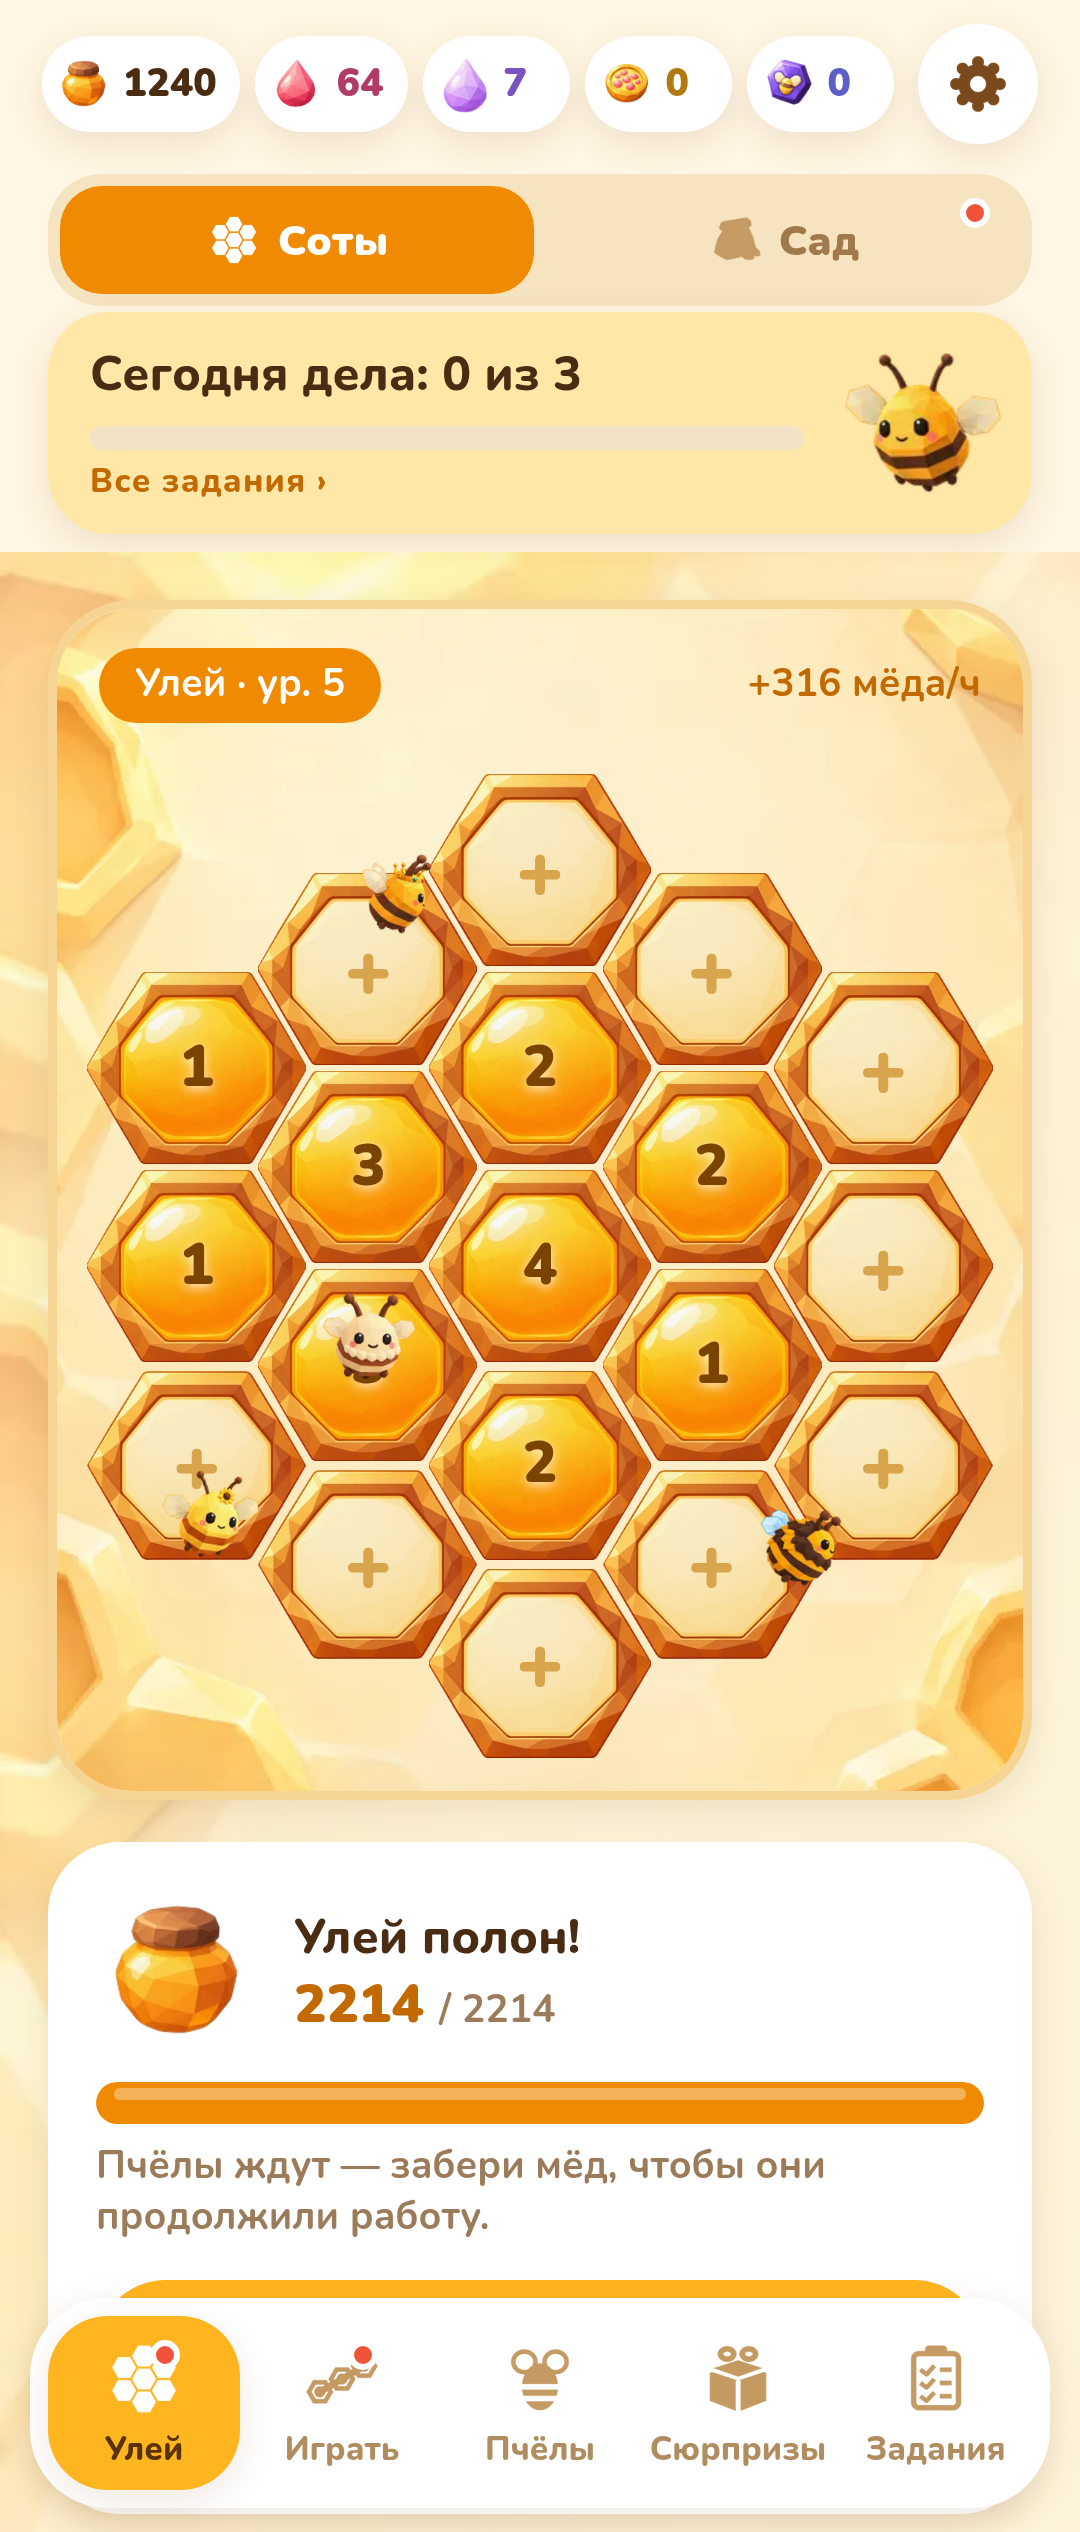
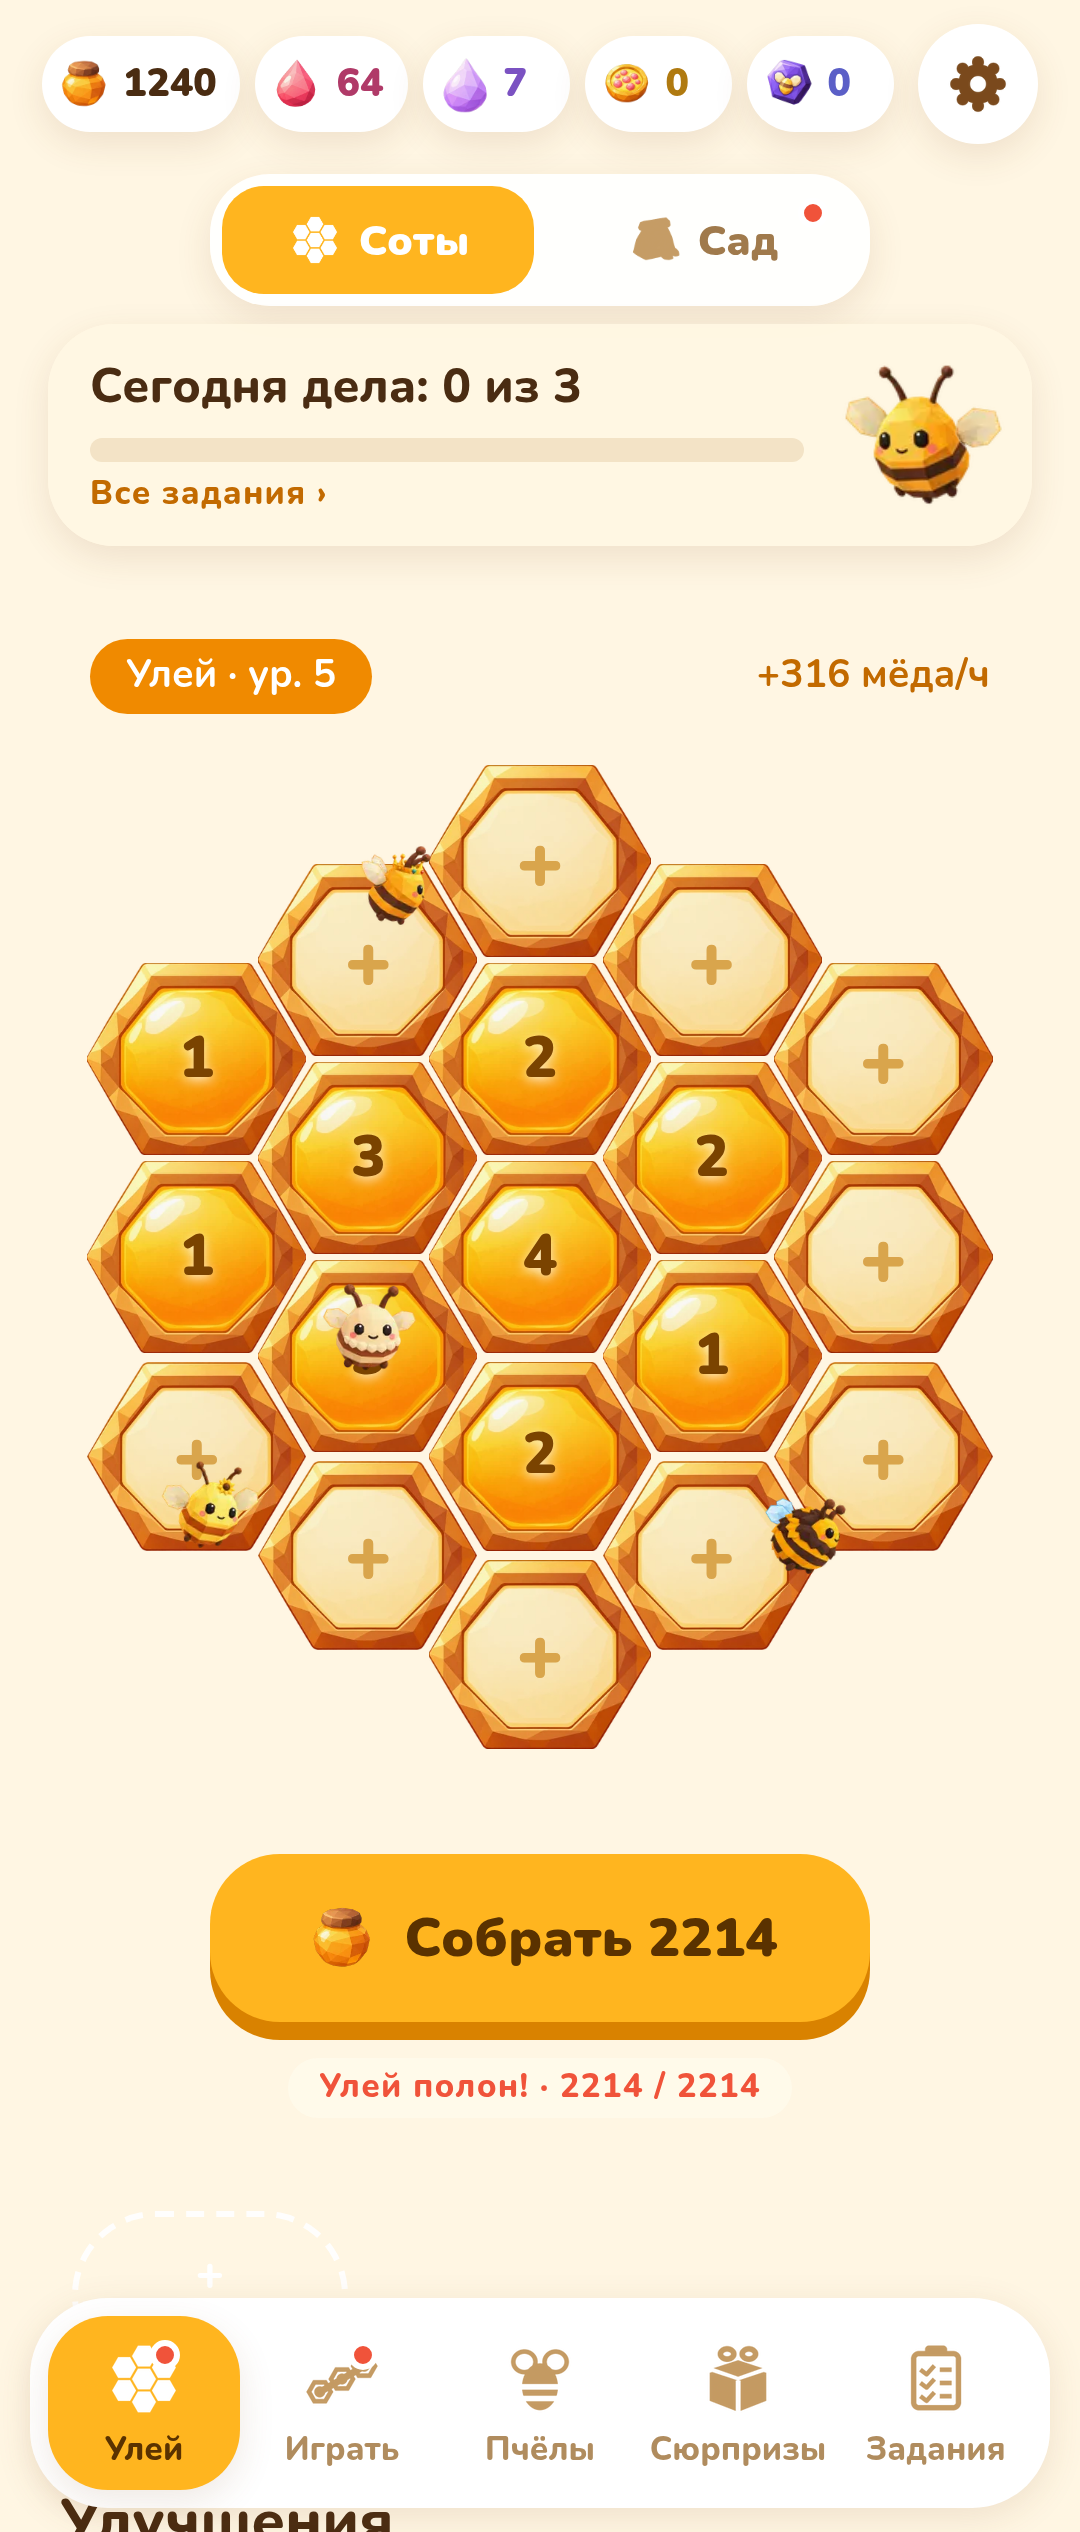
v1.5-ui: Hive and Garden on the meadow per mockup (full-screen env bg, free comb field, Collect button, decor spots, open bed grid, green Полить всё); versionCode 12

diff --git a/src/screens/GardenScreen.tsx b/src/screens/GardenScreen.tsx
@@ -1,6 +1,6 @@
 import { t } from "../i18n";
 import React, { useEffect, useRef, useState } from "react";
-import { ImageBackground, Animated, Image, ScrollView, StyleSheet, useWindowDimensions, View } from "react-native";
+import { Animated, Image, ScrollView, StyleSheet, useWindowDimensions, View } from "react-native";
 import { GameState, dayColorInfo, flowerUnlocked, level, nextBedCost, seedPrice, seedsOwned, shownDecos } from "../logic/game";
 import { DecoStrip, RARITY_UI } from "../ui/lootUi";
 import {
@@ -66,7 +66,7 @@ function BedTile({ b, i, w, selected, onPress }: { b: Bed; i: number; w: number;
   const img = flowerImg(b);
   const h = w * 1.18;
   return (
-    <Press onPress={() => onPress(ref.current)} style={[styles.bed, shadow, { width: w, height: h }, selected && styles.bedSel]}
+    <Press onPress={() => onPress(ref.current)} style={[styles.bed, { width: w, height: h }, selected && styles.bedSel]}
       accessibilityRole="button" accessibilityLabel={t("gd.bedLabel", { i: i + 1, what: `${b.flower ? FLOWER_BY_ID[b.flower].name + ", " : ""}${st.text}` })}>
       <View ref={ref} collapsable={false} style={{ flex: 1, alignItems: "center" }}>
         <View style={{ flex: 1, width: "100%", alignItems: "center", justifyContent: "flex-end" }}>
@@ -79,7 +79,7 @@ function BedTile({ b, i, w, selected, onPress }: { b: Bed; i: number; w: number;
             <View style={styles.plus}><Image source={ART.seed} style={{ width: 22, height: 22, tintColor: "#B0875A" }} /></View>
           )}
         </View>
-        <Image source={wet ? require("../../assets/art/env/bed_wet.webp") : require("../../assets/art/env/bed_dry.webp")} resizeMode="contain" style={{ width: "100%", height: 34, marginTop: -10 }} />
+        <Image source={wet ? require("../../assets/art/env/bed_wet.webp") : require("../../assets/art/env/bed_dry.webp")} resizeMode="contain" style={{ width: "112%", height: 46, marginTop: -16 }} />
         {b.flower && !isReady(b) ? <Bar progress={progress(b)} height={6} color={wet ? "#5CB8F0" : C.honey} style={{ width: "86%", marginTop: 5 }} /> : <View style={{ height: 11 }} />}
         <Txt v="tiny" numberOfLines={1} color={st.tone === "ready" ? C.greenDark : st.tone === "dry" ? C.red : C.dim} style={{ marginTop: 3 }}>{st.text}</Txt>
         {st.tone === "ready" ? <View style={styles.readyDot}><Image source={ART.nectar} style={{ width: 22, height: 22 }} /></View> : null}
@@ -110,7 +110,7 @@ export default function GardenScreen({ s, now, onPlant, onWater, onWaterAll, onH
   };
 
   return (
-    <ImageBackground source={require("../../assets/art/env/garden_bg.webp")} resizeMode="cover" style={{ flex: 1 }} imageStyle={{ opacity: 0.55 }}>
+    <View style={{ flex: 1 }}>
     <ScrollView contentContainerStyle={{ padding: 16, paddingBottom: 110, gap: 14 }} showsVerticalScrollIndicator={false}>
       {!s.settings.gardenIntroDone ? (
         <Card style={{ flexDirection: "row", gap: 10, alignItems: "center" }}>
@@ -143,7 +143,6 @@ export default function GardenScreen({ s, now, onPlant, onWater, onWaterAll, onH
         </View>
       </View>
 
-      <DecoStrip ids={shownDecos(s, "garden")} ground="#DDEFC8" />
       <View onLayout={(e) => setGridW(e.nativeEvent.layout.width)} style={{ flexDirection: "row", flexWrap: "wrap", gap: 10, width: "100%", alignSelf: "stretch" }}>
         {beds.map((b, i) => <BedTile key={i} b={b} i={i} w={bw} selected={sel === i} onPress={(r) => tap(i, r)} />)}
         {bedCost !== null ? (
@@ -156,9 +155,12 @@ export default function GardenScreen({ s, now, onPlant, onWater, onWaterAll, onH
         ) : null}
       </View>
 
-      {canWaterAny ? (
-        <GameButton title={t("gd.waterAll")} icon={ART.can} color="white" onPress={() => onWaterAll()} label={t("gd.waterAll")} />
-      ) : null}
+      <GameButton title={t("gd.waterAll")} icon={ART.can} color="green" disabled={!canWaterAny} onPress={() => onWaterAll()} label={t("gd.waterAll")} />
+      {/* decor room on the grass */}
+      <View style={{ flexDirection: "row", alignItems: "flex-end", minHeight: 80 }}>
+        <DecoStrip ids={shownDecos(s, "garden")} ground="transparent" />
+        <View style={styles.decoSpot}><Txt v="h3" color="#fff">+</Txt><Txt v="tiny" color="#fff">{t("hv.decor")}</Txt></View>
+      </View>
 
       {selBed && sel !== null ? (
         selBed.flower ? (
@@ -208,17 +210,18 @@ export default function GardenScreen({ s, now, onPlant, onWater, onWaterAll, onH
       )}
       <Txt v="tiny" color={C.faint} center>{t("gd.levelHint", { n: level(s) })}</Txt>
     </ScrollView>
-    </ImageBackground>
+    </View>
   );
 }
 
 const styles = StyleSheet.create({
-  head: { backgroundColor: "#E6F5D2", borderRadius: 24, padding: 16, borderWidth: 3, borderColor: "#C6E5A4" },
+  head: { backgroundColor: "rgba(255,250,238,0.94)", borderRadius: 24, padding: 14 },
   nectarBox: { alignItems: "center", backgroundColor: "#fff", borderRadius: 18, paddingHorizontal: 12, paddingVertical: 6 },
   dayColor: { flexDirection: "row", alignItems: "center", gap: 8, backgroundColor: "#fff", borderRadius: 14, padding: 10, marginTop: 12, borderWidth: 2 },
   dot: { width: 14, height: 14, borderRadius: 7, borderWidth: 2, borderColor: "#fff" },
-  bed: { backgroundColor: "#FFF4DD", borderRadius: 22, padding: 8, alignItems: "center", overflow: "visible" },
-  bedSel: { borderWidth: 3, borderColor: C.honey, padding: 5 },
+  bed: { backgroundColor: "transparent", borderRadius: 22, padding: 8, alignItems: "center", overflow: "visible" },
+  decoSpot: { width: 92, height: 56, borderRadius: 46, borderWidth: 2, borderStyle: "dashed", borderColor: "rgba(255,255,255,0.9)", alignItems: "center", justifyContent: "center", marginLeft: 8 },
+  bedSel: { borderWidth: 3, borderColor: C.honey, padding: 5, backgroundColor: "rgba(255,247,226,0.6)" },
   bedLocked: { backgroundColor: "#F6EAD3", justifyContent: "center", borderWidth: 2, borderStyle: "dashed", borderColor: "#E2C99C", ...shadow, shadowOpacity: 0 },
   soil: { width: "92%", height: 18, borderRadius: 9, backgroundColor: "#B07A4A", overflow: "hidden" },
   soilWet: { backgroundColor: "#7A4E2B" },

diff --git a/src/screens/HiveScreen.tsx b/src/screens/HiveScreen.tsx
@@ -2,7 +2,7 @@ import { t } from "../i18n";
 import { shownDecos } from "../logic/game";
 import { DecoStrip } from "../ui/lootUi";
 import React, { useEffect, useMemo, useRef, useState } from "react";
-import { ImageBackground, Animated, Easing, Image, Platform, Pressable, ScrollView, StyleSheet, Text, useWindowDimensions, View } from "react-native";
+import { Animated, Easing, Image, Platform, Pressable, ScrollView, StyleSheet, Text, useWindowDimensions, View } from "react-native";
 import { GameState, cap, canBuildAt, clockRolledBack, combActionCost, level, rate, upgradeCostFor } from "../logic/game";
 import { capHours, combRate, MAX_COMB_LEVEL, msUntilFull, UPGRADES, UpgradeId } from "../logic/economy";
 import { HIVE_SLOTS, hiveCenter } from "../logic/hex";
@@ -187,7 +187,7 @@ export default function HiveScreen({ s, now, onCollect, onComb, onUpgrade, banne
   }, [s.bees.join(","), builtKey, hs, areaW, areaH]);
 
   return (
-    <ImageBackground source={require("../../assets/art/env/hive_bg.webp")} resizeMode="cover" style={{ flex: 1 }} imageStyle={{ opacity: 0.55 }}>
+    <View style={{ flex: 1 }}>
     <ScrollView contentContainerStyle={{ padding: 16, paddingBottom: 110, gap: 14 }} showsVerticalScrollIndicator={false}>
       {rolled ? (
         <Card style={{ backgroundColor: "#FFE7DF", padding: 12 }}>
@@ -196,10 +196,8 @@ export default function HiveScreen({ s, now, onCollect, onComb, onUpgrade, banne
       ) : null}
 
       {banner}
-      <DecoStrip ids={shownDecos(s, "hive")} ground="#F6E3BC" />
-      {/* hive */}
+      {/* hive: free-standing comb field on the meadow */}
       <View style={[styles.hiveArea, { height: areaH + 46 }]}>
-        <Image source={require("../../assets/art/env/hive_bg.webp")} resizeMode="cover" style={[StyleSheet.absoluteFill, { width: "100%", height: "100%", borderRadius: 25, opacity: 0.9 }]} />
         <View style={styles.hiveHead}>
           <View style={styles.levelChip}><Txt v="small" color="#fff">{t("hive.levelChip", { n: level(s) })}</Txt></View>
           <Txt v="small" color={C.honeyDark}>{t("hive.rate", { r: rateFmt(r) })}</Txt>
@@ -218,28 +216,26 @@ export default function HiveScreen({ s, now, onCollect, onComb, onUpgrade, banne
         <CombPanel s={s} slot={sel} onAction={() => onComb(sel)} onClose={() => setSel(null)} />
       ) : null}
 
-      <Card>
-        <View style={{ flexDirection: "row", alignItems: "center", gap: 12 }}>
-          <Animated.Image source={ART.honey} style={{ width: 54, height: 54, transform: [{ scale: glow.interpolate({ inputRange: [0, 0.5, 1], outputRange: [1, 1.1, 1] }) }] }} />
-          <View style={{ flex: 1 }}>
-            <Txt v="h3">{isFull ? t("hive.full") : t("hive.stored")}</Txt>
-            <Txt v="num" color={C.honeyDark}>{fmt(stored)} <Txt v="small" color={C.dim}>/ {fmt(c)}</Txt></Txt>
-          </View>
-        </View>
-        <Bar progress={c ? stored / c : 0} height={14} style={{ marginTop: 10 }} color={isFull ? C.honeyDeep : C.honey} />
-        <Txt v="small" color={C.dim} style={{ marginTop: 6 }}>
-          {isFull ? t("hive.fullHint") : full > 0 ? t("hive.fillsIn", { t: duration(full), h: hours }) : t("hive.buildFirst")}
-        </Txt>
-        <View ref={collectRef} collapsable={false} style={{ marginTop: 12 }}>
+      <View style={{ alignItems: "center", gap: 6 }}>
+        <View ref={collectRef} collapsable={false}>
           <GameButton
             title={stored >= 1 ? t("hive.collectN", { n: fmt(stored) }) : t("hive.empty")}
             icon={ART.honey}
             disabled={stored < 1}
             onPress={async () => onCollect(await centerOf(collectRef.current))}
             label={t("hive.collect")}
+            style={{ minWidth: 220 }}
           />
         </View>
-      </Card>
+        <View style={styles.storeChip}>
+          <Txt v="tiny" color={isFull ? C.red : C.honeyDark}>{isFull ? t("hive.full") : t("hive.stored")} · {fmt(stored)} / {fmt(c)}{!isFull && full > 0 ? ` · ${duration(full)}` : ""}</Txt>
+        </View>
+      </View>
+      {/* decor spots on the grass */}
+      <View style={styles.decoGrass}>
+        <DecoStrip ids={shownDecos(s, "hive")} ground="transparent" />
+        <View style={styles.decoSpot}><Txt v="h3" color="#fff">+</Txt><Txt v="tiny" color="#fff">{t("hv.decor")}</Txt></View>
+      </View>
 
       {/* upgrades */}
       <Txt v="h2" style={{ marginTop: 4, marginLeft: 4 }}>{t("hive.upgrades")}</Txt>
@@ -261,7 +257,7 @@ export default function HiveScreen({ s, now, onCollect, onComb, onUpgrade, banne
         );
       })}
     </ScrollView>
-    </ImageBackground>
+    </View>
   );
 }
 
@@ -300,7 +296,10 @@ function CombPanel({ s, slot, onAction, onClose }: { s: GameState; slot: number;
 }
 
 const styles = StyleSheet.create({
-  hiveArea: { backgroundColor: "#FFE9BF", borderRadius: 28, overflow: "hidden", alignItems: "center", paddingTop: 8, borderWidth: 3, borderColor: "#F6D594", ...shadow },
+  hiveArea: { alignItems: "center", paddingTop: 4, overflow: "hidden" },
+  storeChip: { backgroundColor: "rgba(255,250,235,0.85)", borderRadius: 12, paddingHorizontal: 10, paddingVertical: 3 },
+  decoGrass: { flexDirection: "row", alignItems: "flex-end", minHeight: 90 },
+  decoSpot: { width: 92, height: 56, borderRadius: 46, borderWidth: 2, borderStyle: "dashed", borderColor: "rgba(255,255,255,0.9)", alignItems: "center", justifyContent: "center", alignSelf: "center", marginLeft: 8 },
   hiveHead: { flexDirection: "row", alignSelf: "stretch", justifyContent: "space-between", alignItems: "center", paddingHorizontal: 14, height: 34 },
   levelChip: { backgroundColor: C.honeyDeep, borderRadius: 14, paddingHorizontal: 12, paddingVertical: 4 },
   lvlCenter: { flex: 1, alignItems: "center", justifyContent: "center" },

diff --git a/App.tsx b/App.tsx
@@ -478,6 +478,9 @@ function Main() {
     return (
       <View style={{ flex: 1, backgroundColor: C.bg }}>
         <StatusBar style="dark" />
+      {tab === "hive" ? (
+        <Image source={hiveView === "garden" ? require("./assets/art/env/garden_bg.webp") : require("./assets/art/env/hive_bg.webp")} resizeMode="cover" style={[StyleSheet.absoluteFill, { width: "100%", height: "100%" }]} />
+      ) : null}
         <GameScreen
           key={game.key}
           mode={game.mode}
@@ -645,7 +648,7 @@ function taskBadge(s: GameState) {
 }
 
 const styles = StyleSheet.create({
-  zcard: { flexDirection: "row", alignItems: "center", gap: 10, marginHorizontal: 16, marginBottom: 6, paddingVertical: 8, paddingLeft: 14, paddingRight: 8, borderRadius: 20, backgroundColor: "#FFE7A8" },
+  zcard: { flexDirection: "row", alignItems: "center", gap: 10, marginHorizontal: 16, marginBottom: 6, paddingVertical: 8, paddingLeft: 14, paddingRight: 8, borderRadius: 22, backgroundColor: "rgba(255,247,226,0.94)" },
   top: { flexDirection: "row", alignItems: "center", gap: 8, paddingHorizontal: 14, paddingBottom: 6 },
   lvl: { width: 36, height: 36, borderRadius: 12, backgroundColor: C.honeyDeep, alignItems: "center", justifyContent: "center", transform: [{ rotate: "45deg" }], marginRight: 4 },
   gear: { width: 40, height: 40, borderRadius: 20, backgroundColor: "#fff", alignItems: "center", justifyContent: "center", ...shadow },
@@ -656,7 +659,7 @@ const styles = StyleSheet.create({
   tabIconOn: { backgroundColor: C.honey },
   badge: { position: "absolute", top: 2, right: 8, width: 10, height: 10, borderRadius: 5, backgroundColor: C.red, borderWidth: 2, borderColor: "#fff" },
   banner: { flexDirection: "row", gap: 12, backgroundColor: "#fff", borderRadius: 22, padding: 14 },
-  seg: { flexDirection: "row", marginHorizontal: 16, marginTop: 4, marginBottom: 2, backgroundColor: "#F6E3BF", borderRadius: 18, padding: 4, gap: 4 },
+  seg: { flexDirection: "row", alignSelf: "center", width: 220, marginTop: 4, marginBottom: 6, backgroundColor: "rgba(255,255,255,0.92)", borderRadius: 20, padding: 4, gap: 4, ...shadow },
   segBtn: { flex: 1, flexDirection: "row", gap: 6, alignItems: "center", justifyContent: "center", height: 36, borderRadius: 14 },
-  segOn: { backgroundColor: C.honeyDeep },
+  segOn: { backgroundColor: C.honey },
 });

diff --git a/src/i18n/strings/common.ts b/src/i18n/strings/common.ts
@@ -29,6 +29,7 @@ export const common = {
   "c.close": { en: "Close", uk: "Закрити", ru: "Закрыть" },
   "c.closeWindow": { en: "Close window", uk: "Закрити вікно", ru: "Закрыть окно" },
   "c.honey": { en: "Honey", uk: "Мед", ru: "Мёд" },
+  "hv.decor": { en: "Decor", uk: "Прикраса", ru: "Украшение" },
   "c.pollen": { en: "Pollen", uk: "Пилок", ru: "Пыльца" },
   "c.fragments": { en: "Fragments", uk: "Уламки", ru: "Осколки" },
   "c.jelly": { en: "Royal jelly", uk: "Маточне молочко", ru: "Маточное молочко" },

diff --git a/src/version.ts b/src/version.ts
@@ -1,6 +1,6 @@
 /** App version (kept in sync with app.json / build.gradle by tests/version.test.ts). */
 export const APP_VERSION = "1.5.0-dev";
-export const APP_VERSION_CODE = 11;
+export const APP_VERSION_CODE = 12;
 export const GITHUB_REPO = "InM1nd/buzzle";
 export const GITHUB_URL = `https://github.com/${GITHUB_REPO}`;
 export const PRIVACY_URL = "https://inm1nd.github.io/buzzle/privacy/";
